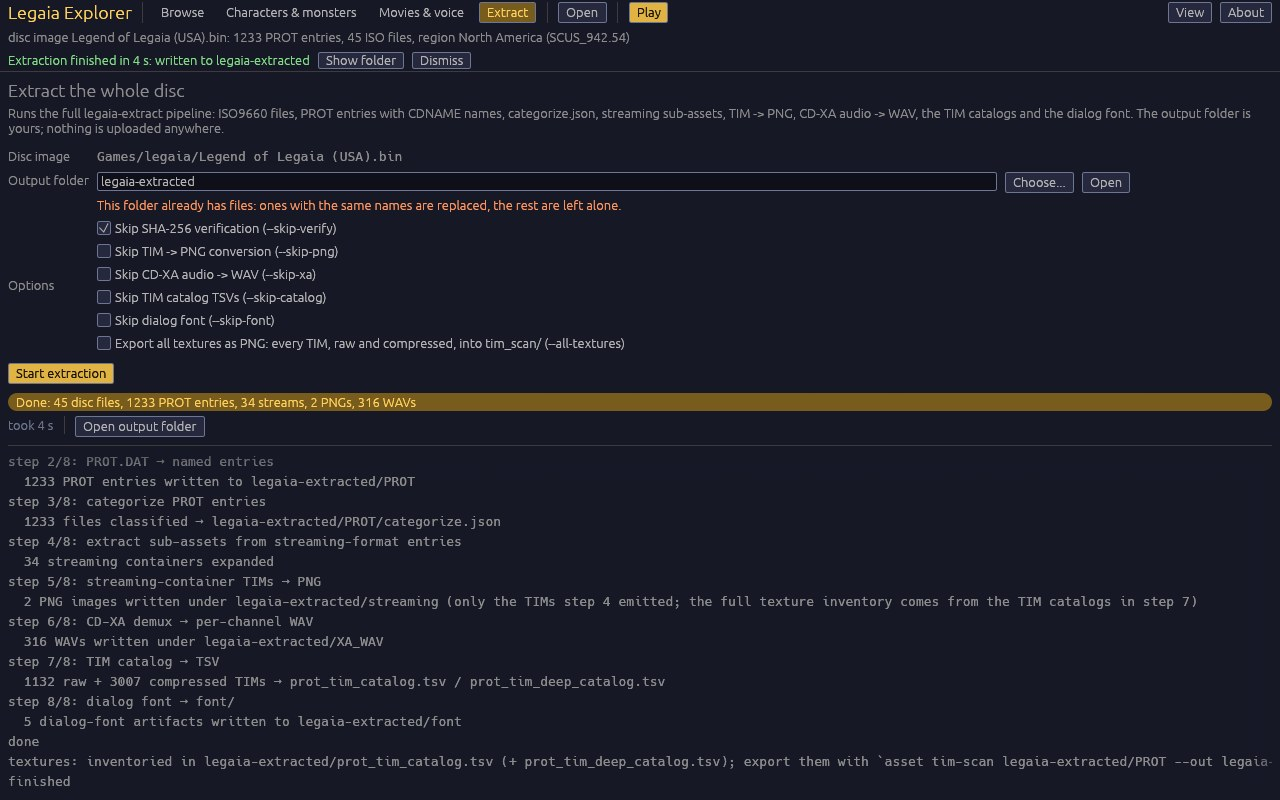
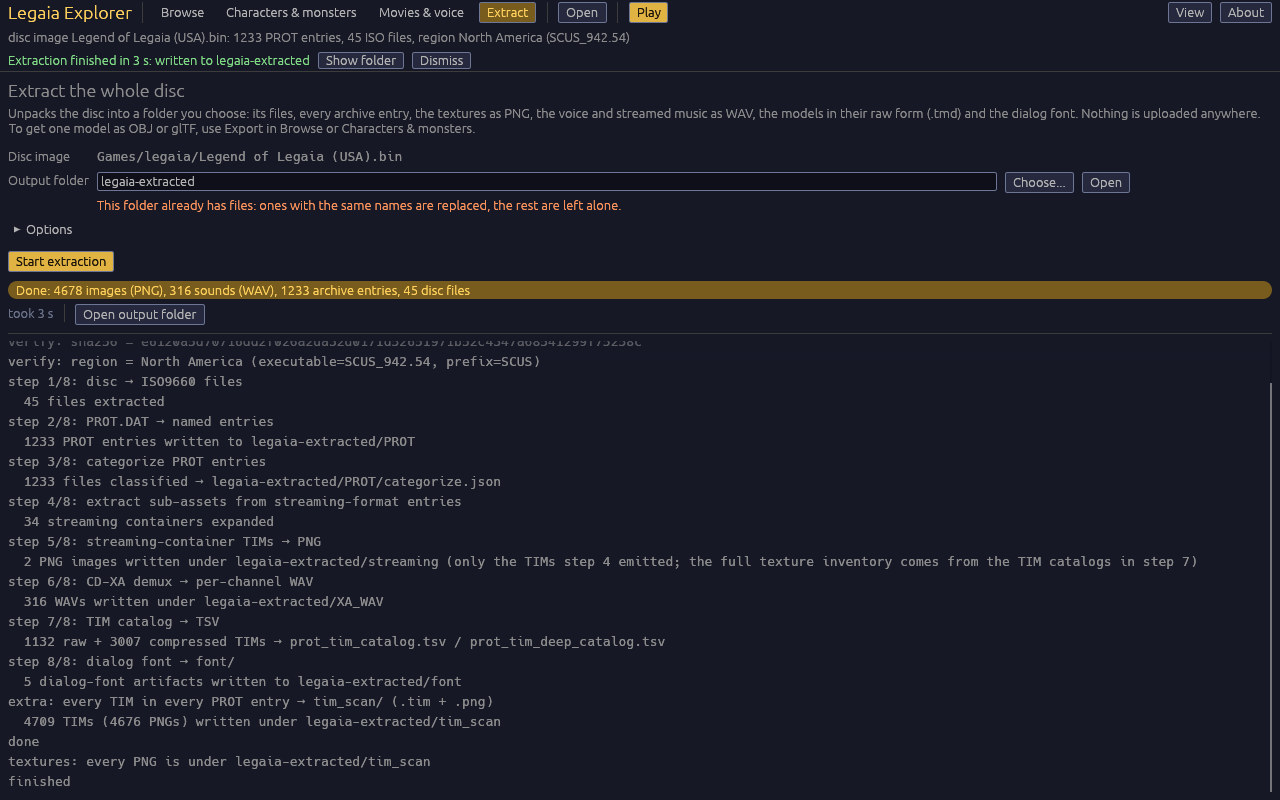
Explorer images: recapture the start page and the Extract tab from the app
Both images described the old program: the old Extract line on the start page,
and on the tab the old skip list with textures off and a run of two PNGs. The
new shots are the real app on a private X server, text only as before.

The capture showed a real fault too: with --all-textures the log's last line
still told the reader to export the textures it had just written, and its length
put a scrollbar under the log. It now names the folder; only a run without them
gets the export hint.

diff --git a/site/_content/guides/desktop-apps.html b/site/_content/guides/desktop-apps.html
@@ -116,10 +116,10 @@
 
   <h3 id="explorer-extract">Extract the whole disc</h3>
   <figure class="screenshot">
-    <img src="../img/desktop/explorer-extract.jpg" width="1280" height="800" alt="The Extract tab after a finished run: output folder, skip options, a full progress bar, the step-by-step log and an Open output folder button" loading="lazy">
+    <img src="../img/desktop/explorer-extract.jpg" width="1280" height="800" alt="The Extract tab after a finished run: output folder, the folded Options row, a full progress bar, the step-by-step log and an Open output folder button" loading="lazy">
     <figcaption>The <em>Extract</em> tab writes exactly what <code>legaia-extract --all-textures</code> produces.</figcaption>
   </figure>
-  <p>Choose an output folder (Explorer proposes one beside the disc image), tick any steps to skip, and start (<em>Every texture as PNG</em> stays ticked unless you clear it: it is what puts the disc's textures in the folder); a note under the folder warns when it already holds files. The tab shows the step, the time so far and, once a step has a steady rate, about how long it has left; the log can be cut down to its warnings, the run can be cancelled, and <em>Open output folder</em> is there whenever the folder exists. The run goes on while you browse, and its end (or its error) shows on the status line of whatever view is open. Tick <em>Export all textures as PNG</em> to also get every texture on the disc as a PNG. What the folder holds is described in <a href="getting-started.html#one-shot-extract">Getting started</a>.</p>
+  <p>Choose an output folder (Explorer proposes one beside the disc image), open <em>Options</em> if you want to leave a step out, and start (<em>Every texture as PNG</em> stays ticked unless you clear it: it is what puts the disc's textures in the folder); a note under the folder warns when it already holds files. The tab shows the step, the time so far and, once a step has a steady rate, about how long it has left; the log can be cut down to its warnings, the run can be cancelled, and <em>Open output folder</em> is there whenever the folder exists. The run goes on while you browse, and its end (or its error) shows on the status line of whatever view is open. Tick <em>Export all textures as PNG</em> to also get every texture on the disc as a PNG. What the folder holds is described in <a href="getting-started.html#one-shot-extract">Getting started</a>.</p>
 
   <h3 id="explorer-play">Play, and the rest of the window</h3>
   <p><strong>Play</strong> - the gold button in the top bar, or <kbd>F5</kbd> - starts the game on the open disc, at the title screen. Saves, key bindings and options are the same ones the game uses when you start it directly, and the disc is remembered for the game too: starting <em>Legend of Legaia</em> later finds it ready. The display options you set in the game's launcher (below) apply to a game started from Explorer too. Play needs the USA disc image and the <code>command-line-tools</code> folder beside Explorer; when it is greyed out, hover it to see why (on another region's disc the disc line also says <em>Play needs the USA disc</em>). If the game stops with an error, the status line shows the end of its log and where the full log is.</p>

diff --git a/crates/extract/src/lib.rs b/crates/extract/src/lib.rs
@@ -258,11 +258,15 @@ pub fn run(opts: &Options, r: &dyn Reporter) -> Result<Summary> {
 
     r.log("done");
     let o = out.display();
-    r.log(&format!(
-        "textures: inventoried in {o}/prot_tim_catalog.tsv (+ prot_tim_deep_catalog.tsv); \
-         export them with `asset tim-scan {o}/PROT --out {o}/tim_scan` and convert to \
-         PNG with `tim convert-dir {o}/tim_scan`"
-    ));
+    if opts.all_textures {
+        r.log(&format!("textures: every PNG is under {o}/tim_scan"));
+    } else {
+        r.log(&format!(
+            "textures: inventoried in {o}/prot_tim_catalog.tsv (+ prot_tim_deep_catalog.tsv); \
+             export them with `asset tim-scan {o}/PROT --out {o}/tim_scan` and convert to \
+             PNG with `tim convert-dir {o}/tim_scan`"
+        ));
+    }
     Ok(sum)
 }
 

diff --git a/docs/guides/extracting-assets.md b/docs/guides/extracting-assets.md
@@ -32,7 +32,7 @@ common cases with buttons:
    of the list saves any file of the disc's own file system. After an export,
    *Show folder* on the status line opens the folder it went to.
 5. **Extract** the whole disc: switch to *Extract*, choose an output folder
-   (it proposes one beside the disc image), tick the same skip options the
+   (it proposes one beside the disc image), open *Options* for the same skip options the
    command line offers, and start. The tab shows progress and the log, can be
    cancelled, and offers *Open output folder* when it ends; the folder it writes is
    exactly what the `legaia-extract --all-textures` command below produces.
